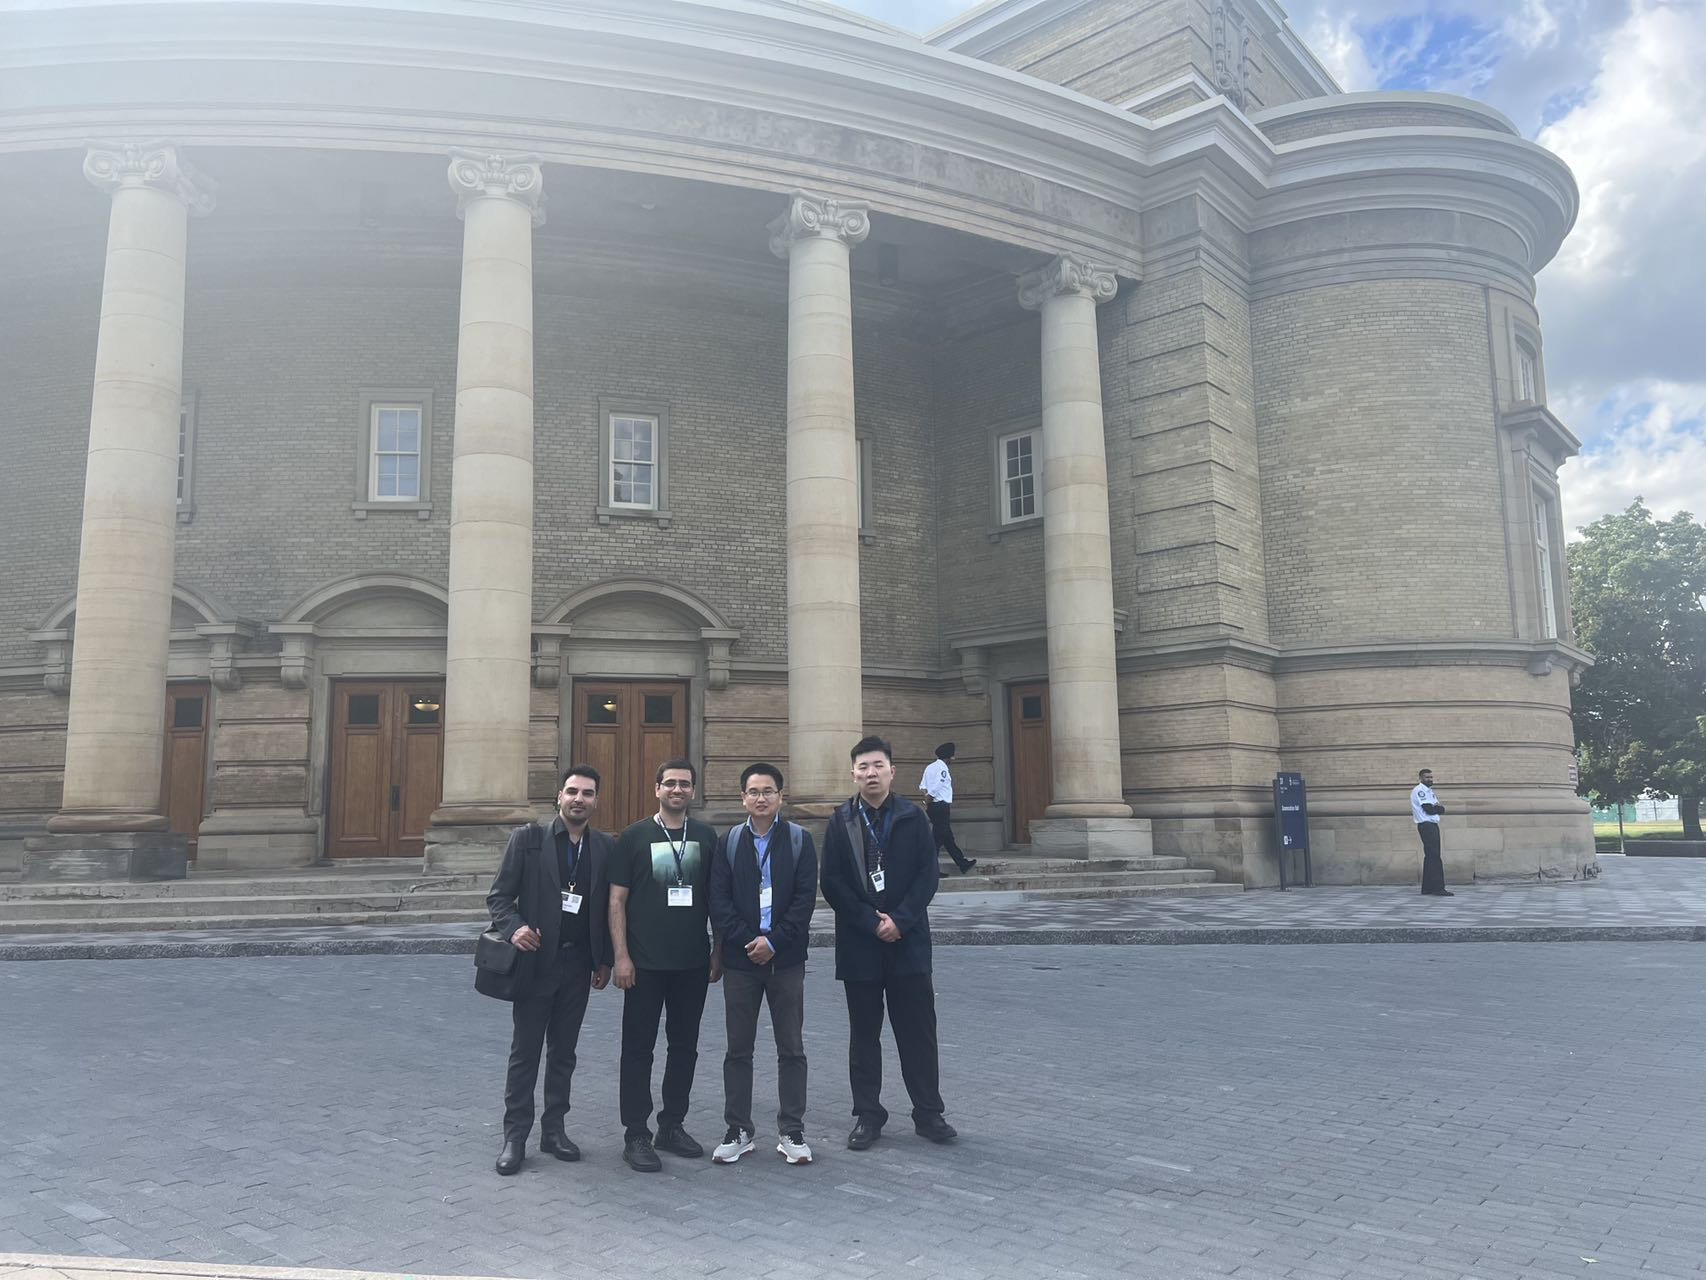
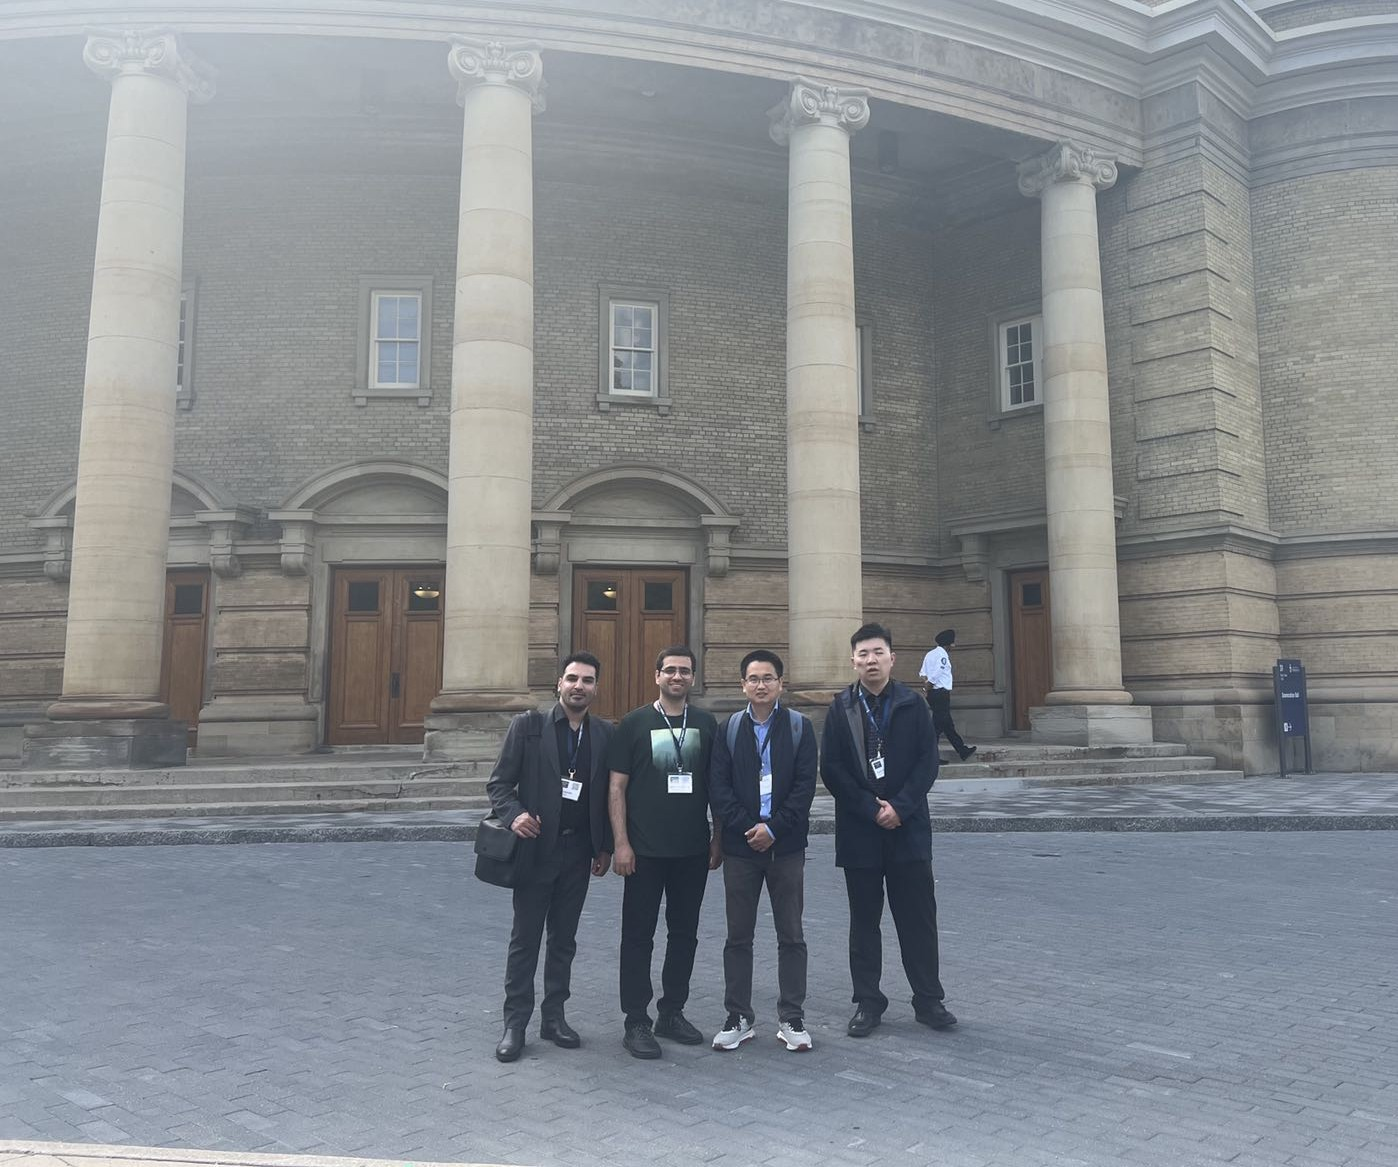
gallary

diff --git a/news.html b/news.html
@@ -20,7 +20,7 @@
  .photo-container {
       width: 75vw;
       max-width: 1000px;
-      aspect-ratio: 6/5.1;
+      aspect-ratio: 4/3.3;
       position: relative;
       border-radius: 12px;
       overflow: hidden;
@@ -290,6 +290,10 @@
       {
         src: "themes/img/gallary/HIAM2025.jpg",
         caption: "HI-AM conference 2025 at Waterloo"
+      },
+        {
+        src: "themes/img/gallary/Convocation2025.jpg",
+        caption: "Convocation 2025: Yasser and Jasmun"
       },
       {
         src: "themes/img/gallary/CSME2025.jpg",
